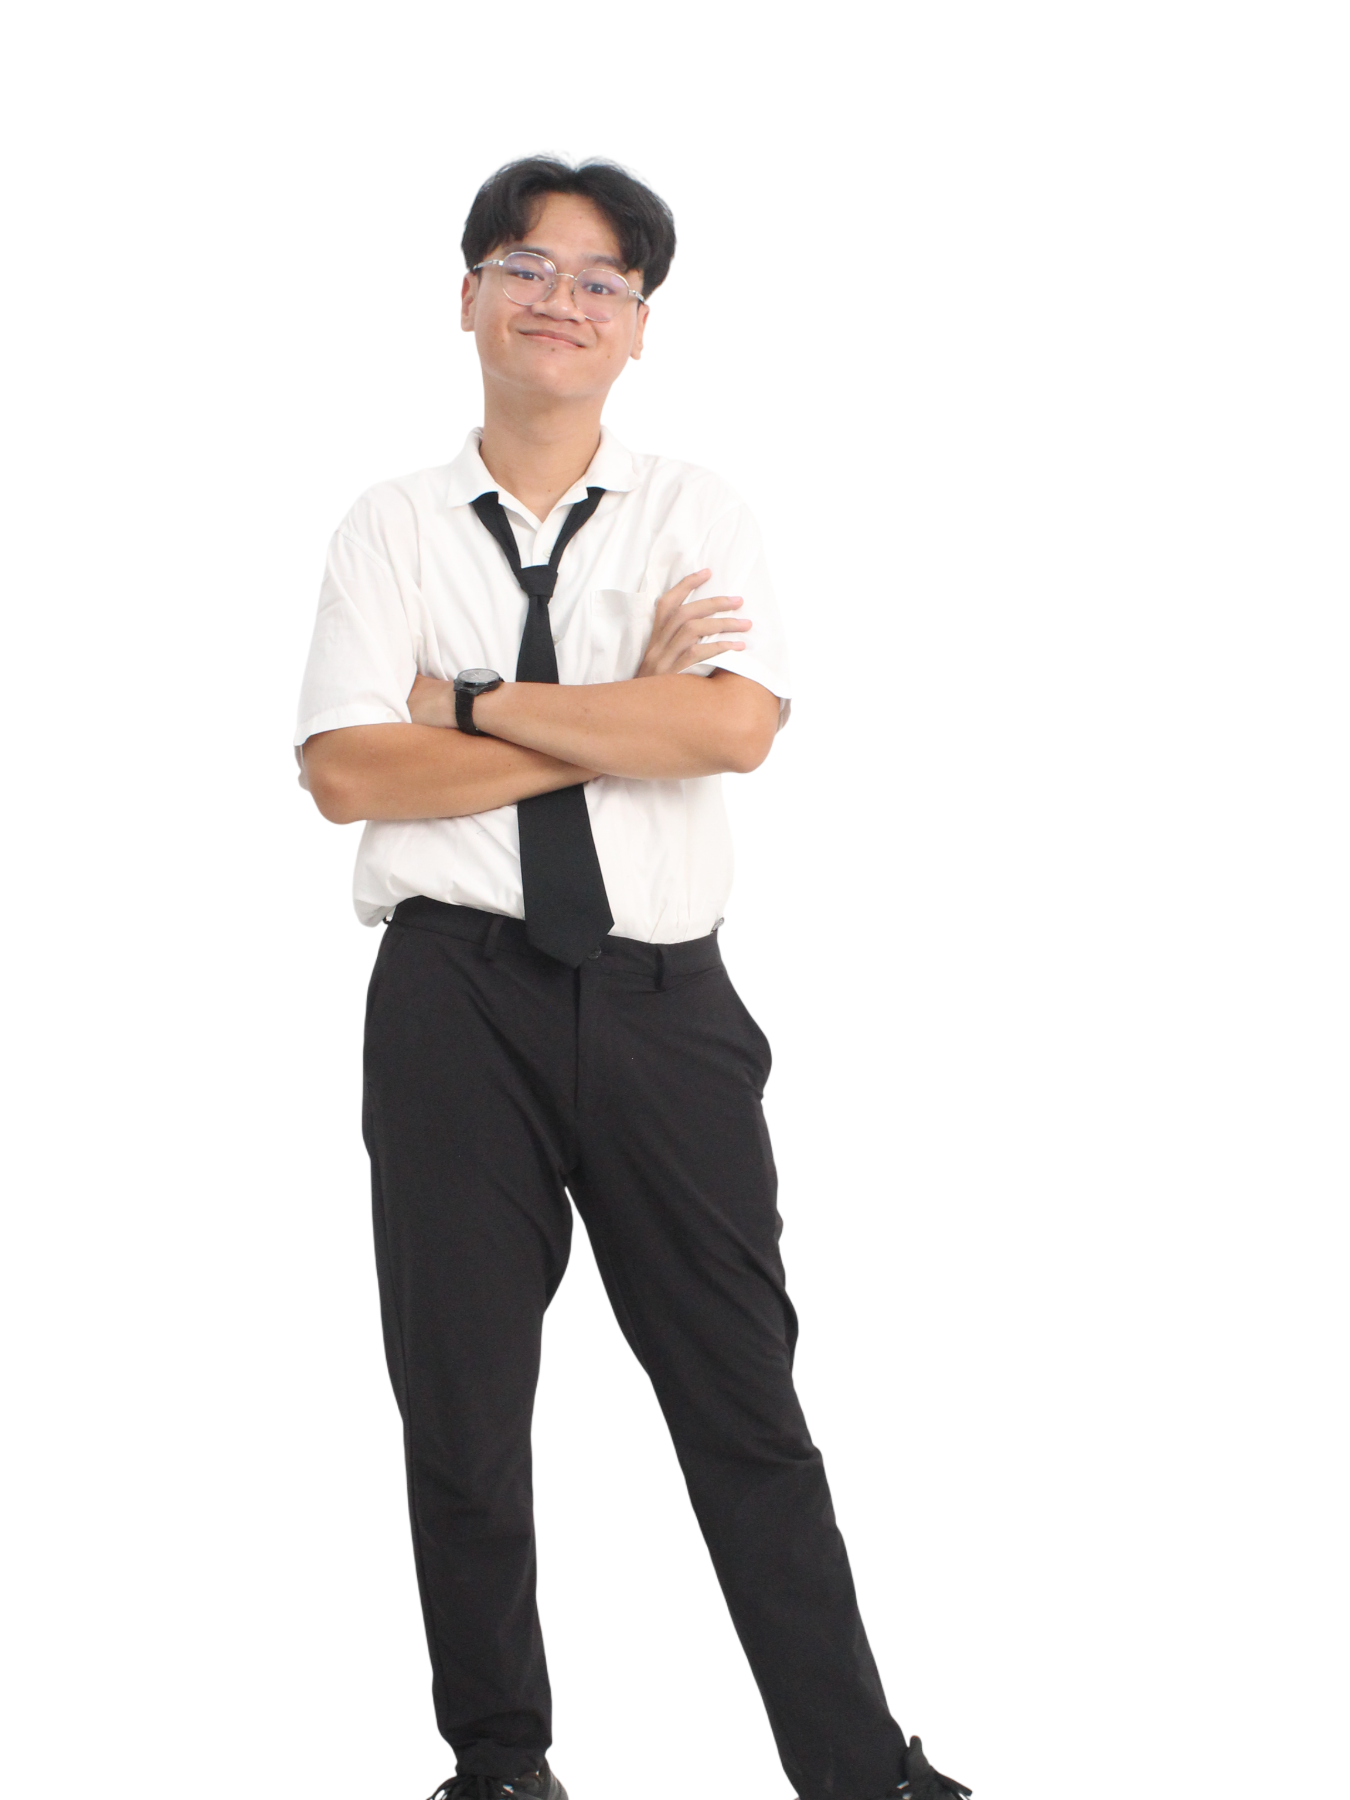
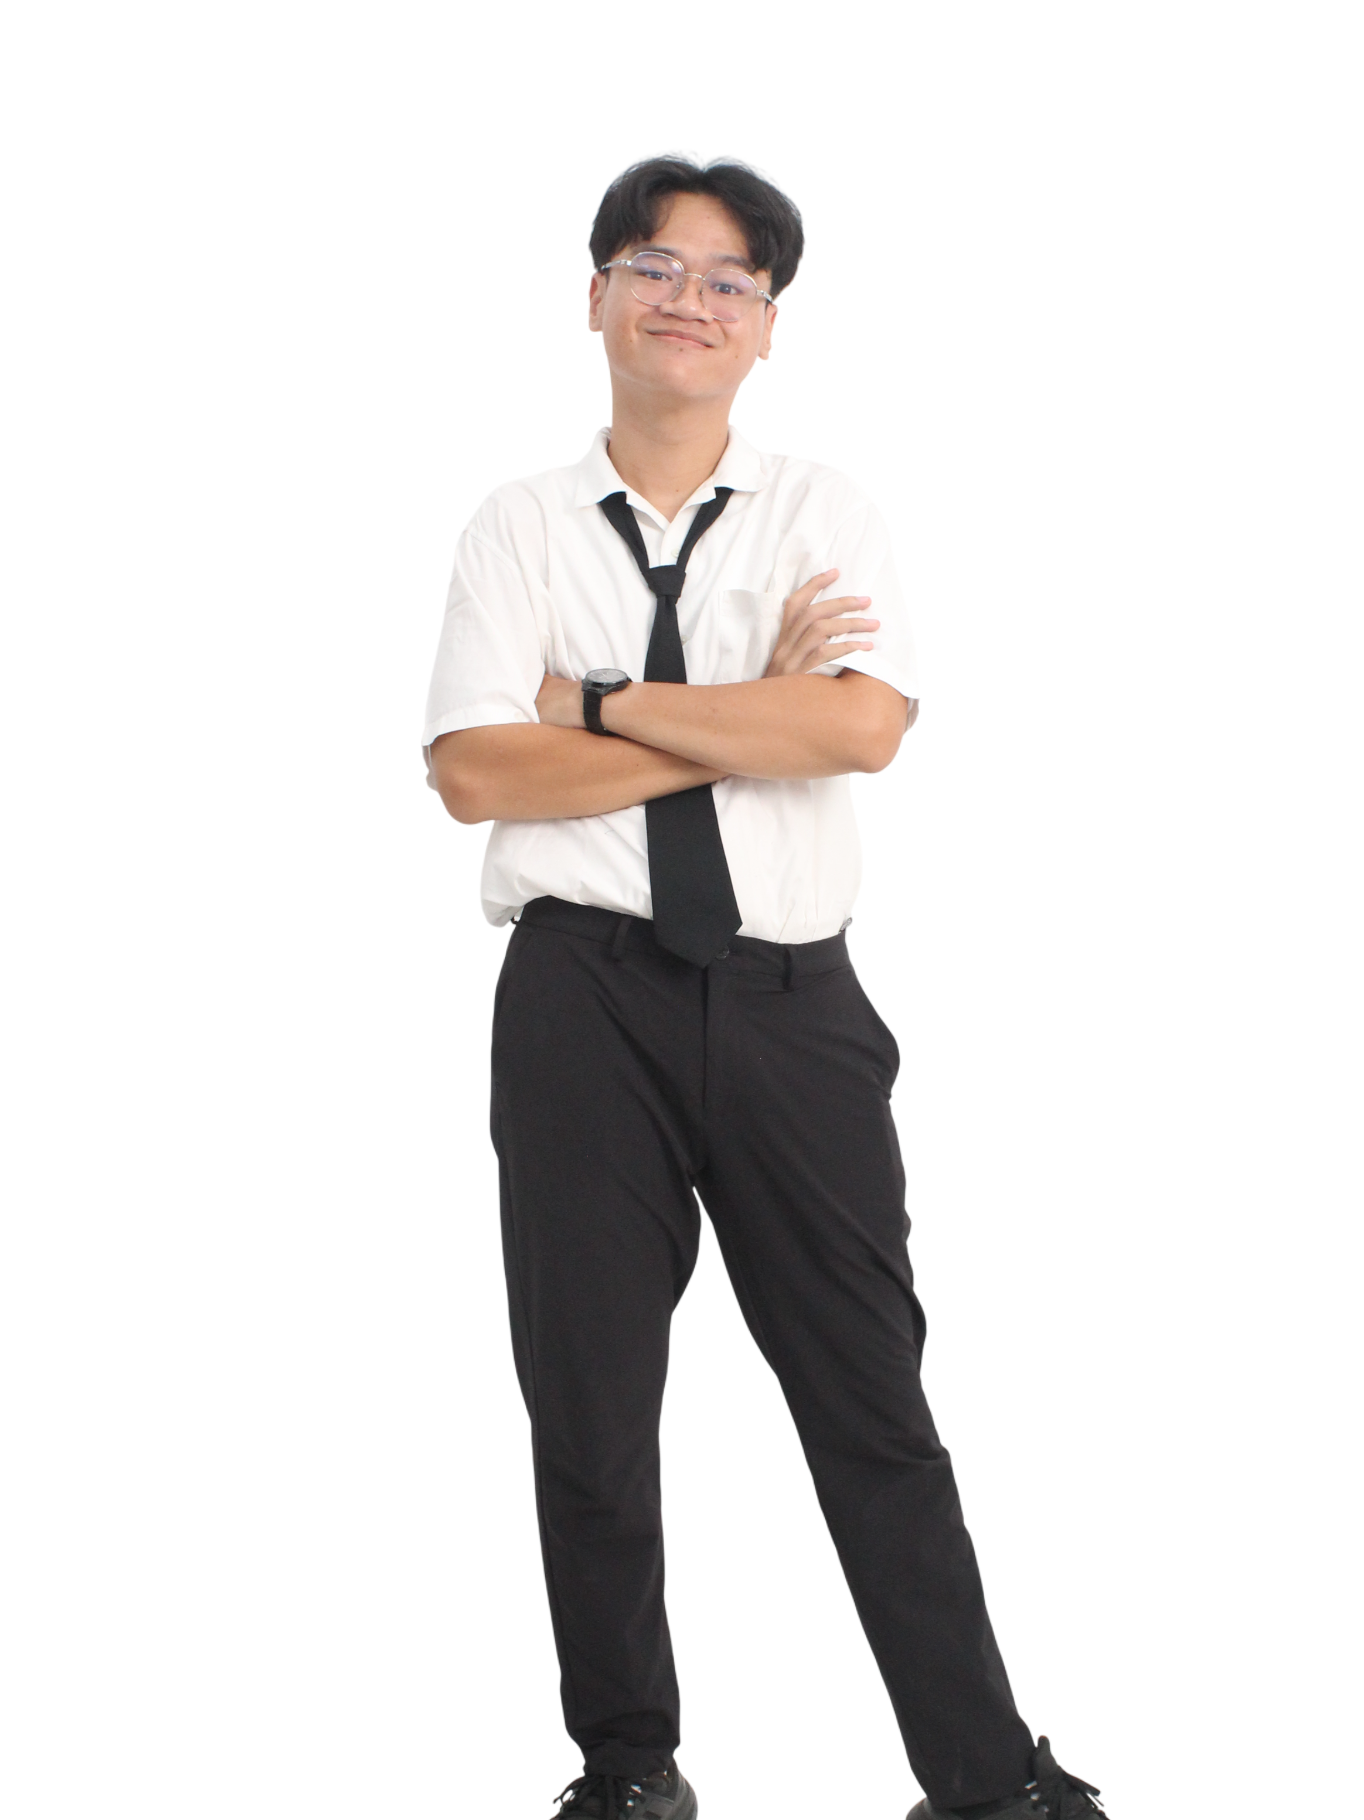
Fix photo centering, lock grid to prevent typewriter layout shift, add mobile navbar spacing

Changed region(s): [[0.2178, 0.0622, 0.8089, 1.0], [0.28, 0.28, 0.3111, 0.3422]]

diff --git a/style.css b/style.css
@@ -282,13 +282,14 @@ a {
 
 .hero-grid {
   display: grid;
-  grid-template-columns: minmax(0, 1fr) auto;
+  grid-template-columns: 1fr 320px;
   align-items: center;
   gap: 48px;
 }
 
 .hero-content {
   min-width: 0;
+  overflow: hidden;
   opacity: 0;
   transform: translateY(20px);
   animation: slideIn 1s cubic-bezier(0.16, 1, 0.3, 1) forwards;
@@ -779,7 +780,7 @@ h3.timeline-title {
 @media (max-width: 992px) {
   .hero {
     min-height: auto;
-    padding-top: 80px;
+    padding-top: 110px;
     padding-bottom: 48px;
   }
   .hero-grid {

diff --git a/index.html b/index.html
@@ -72,7 +72,7 @@
             
             <div class="hero-image-container">
                 <div class="hero-image-wrapper">
-                    <img src="image/Foto Gw PNG.png?v=3" alt="Faiz Naufal Huda Profile Picture" class="hero-img">
+                    <img src="image/Foto Gw PNG.png?v=4" alt="Faiz Naufal Huda Profile Picture" class="hero-img">
                 </div>
             </div>
         </div>
